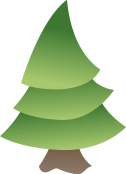
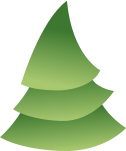
Seperated tree graphics.

diff --git a/js/GaperGapGame.js b/js/GaperGapGame.js
@@ -337,23 +337,23 @@ var Tree = function() {
   var hasBeenHit = false;
 
   var tree = new createjs.Container();
-  var graphic = new createjs.Bitmap(GaperGap.assets['tree']);
-  var hitContainer = new createjs.Container();
-  var hitArea = new createjs.Shape();
+  var trunk = new createjs.Bitmap(GaperGap.assets['trunk']);
+  var branches = new createjs.Bitmap(GaperGap.assets['tree']);
 
-  graphic.regX = graphic.image.width/2;
-  graphic.regY = graphic.image.height;
+  trunk.regX = trunk.image.width/2;
+  trunk.regY = trunk.image.height;
+  branches.regX = branches.image.width/2;
+  branches.regY = branches.image.height*0.9;
 
-  hitArea.graphics.beginFill("red").drawCircle(0, 0, hitSize/2);
-  hitContainer.addChild(hitArea);
-  tree.addChild(hitContainer, graphic);
-  hitContainer.cache(-hitSize/2,-hitSize/2,hitSize,hitSize);
+  branches.y = -trunk.image.height*0.7;
+
+  tree.addChild(trunk, branches);
 
   tree.hit = function(collision) {
     if (!hasBeenHit) {
       var coords = tree.globalToLocal(collision.x, collision.y);
       var impact = -(coords.x);
-      createjs.Tween.get(graphic, {override:false})
+      createjs.Tween.get(branches, {override:false})
         .to({rotation:impact/2}, 100, createjs.Ease.circIn)
         .to({rotation:impact/4}, 3000, createjs.Ease.elasticOut);
       hasBeenHit = true;
@@ -361,7 +361,7 @@ var Tree = function() {
   };
 
   tree.__defineGetter__('hitArea', function(){
-    return graphic;
+    return trunk;
   });
 
   return tree;
@@ -440,6 +440,7 @@ var GaperGap = (function(){
 
     manifest = [
       {src:"skier.png", id:"skier"},
+      {src:"trunk.png", id:"trunk"},
       {src:"tree.png", id:"tree"},
       {src:"arrow.png", id:"arrow"},
       {src:"hill_background.png", id:"hill-background"}

diff --git a/js/src/Tree.js b/js/src/Tree.js
@@ -3,23 +3,23 @@ var Tree = function() {
   var hasBeenHit = false;
 
   var tree = new createjs.Container();
-  var graphic = new createjs.Bitmap(GaperGap.assets['tree']);
-  var hitContainer = new createjs.Container();
-  var hitArea = new createjs.Shape();
+  var trunk = new createjs.Bitmap(GaperGap.assets['trunk']);
+  var branches = new createjs.Bitmap(GaperGap.assets['tree']);
 
-  graphic.regX = graphic.image.width/2;
-  graphic.regY = graphic.image.height;
+  trunk.regX = trunk.image.width/2;
+  trunk.regY = trunk.image.height;
+  branches.regX = branches.image.width/2;
+  branches.regY = branches.image.height*0.9;
 
-  hitArea.graphics.beginFill("red").drawCircle(0, 0, hitSize/2);
-  hitContainer.addChild(hitArea);
-  tree.addChild(hitContainer, graphic);
-  hitContainer.cache(-hitSize/2,-hitSize/2,hitSize,hitSize);
+  branches.y = -trunk.image.height*0.7;
+
+  tree.addChild(trunk, branches);
 
   tree.hit = function(collision) {
     if (!hasBeenHit) {
       var coords = tree.globalToLocal(collision.x, collision.y);
       var impact = -(coords.x);
-      createjs.Tween.get(graphic, {override:false})
+      createjs.Tween.get(branches, {override:false})
         .to({rotation:impact/2}, 100, createjs.Ease.circIn)
         .to({rotation:impact/4}, 3000, createjs.Ease.elasticOut);
       hasBeenHit = true;
@@ -27,7 +27,7 @@ var Tree = function() {
   };
 
   tree.__defineGetter__('hitArea', function(){
-    return graphic;
+    return trunk;
   });
 
   return tree;

diff --git a/js/src/Main.js b/js/src/Main.js
@@ -78,6 +78,7 @@ var GaperGap = (function(){
 
     manifest = [
       {src:"skier.png", id:"skier"},
+      {src:"trunk.png", id:"trunk"},
       {src:"tree.png", id:"tree"},
       {src:"arrow.png", id:"arrow"},
       {src:"hill_background.png", id:"hill-background"}
